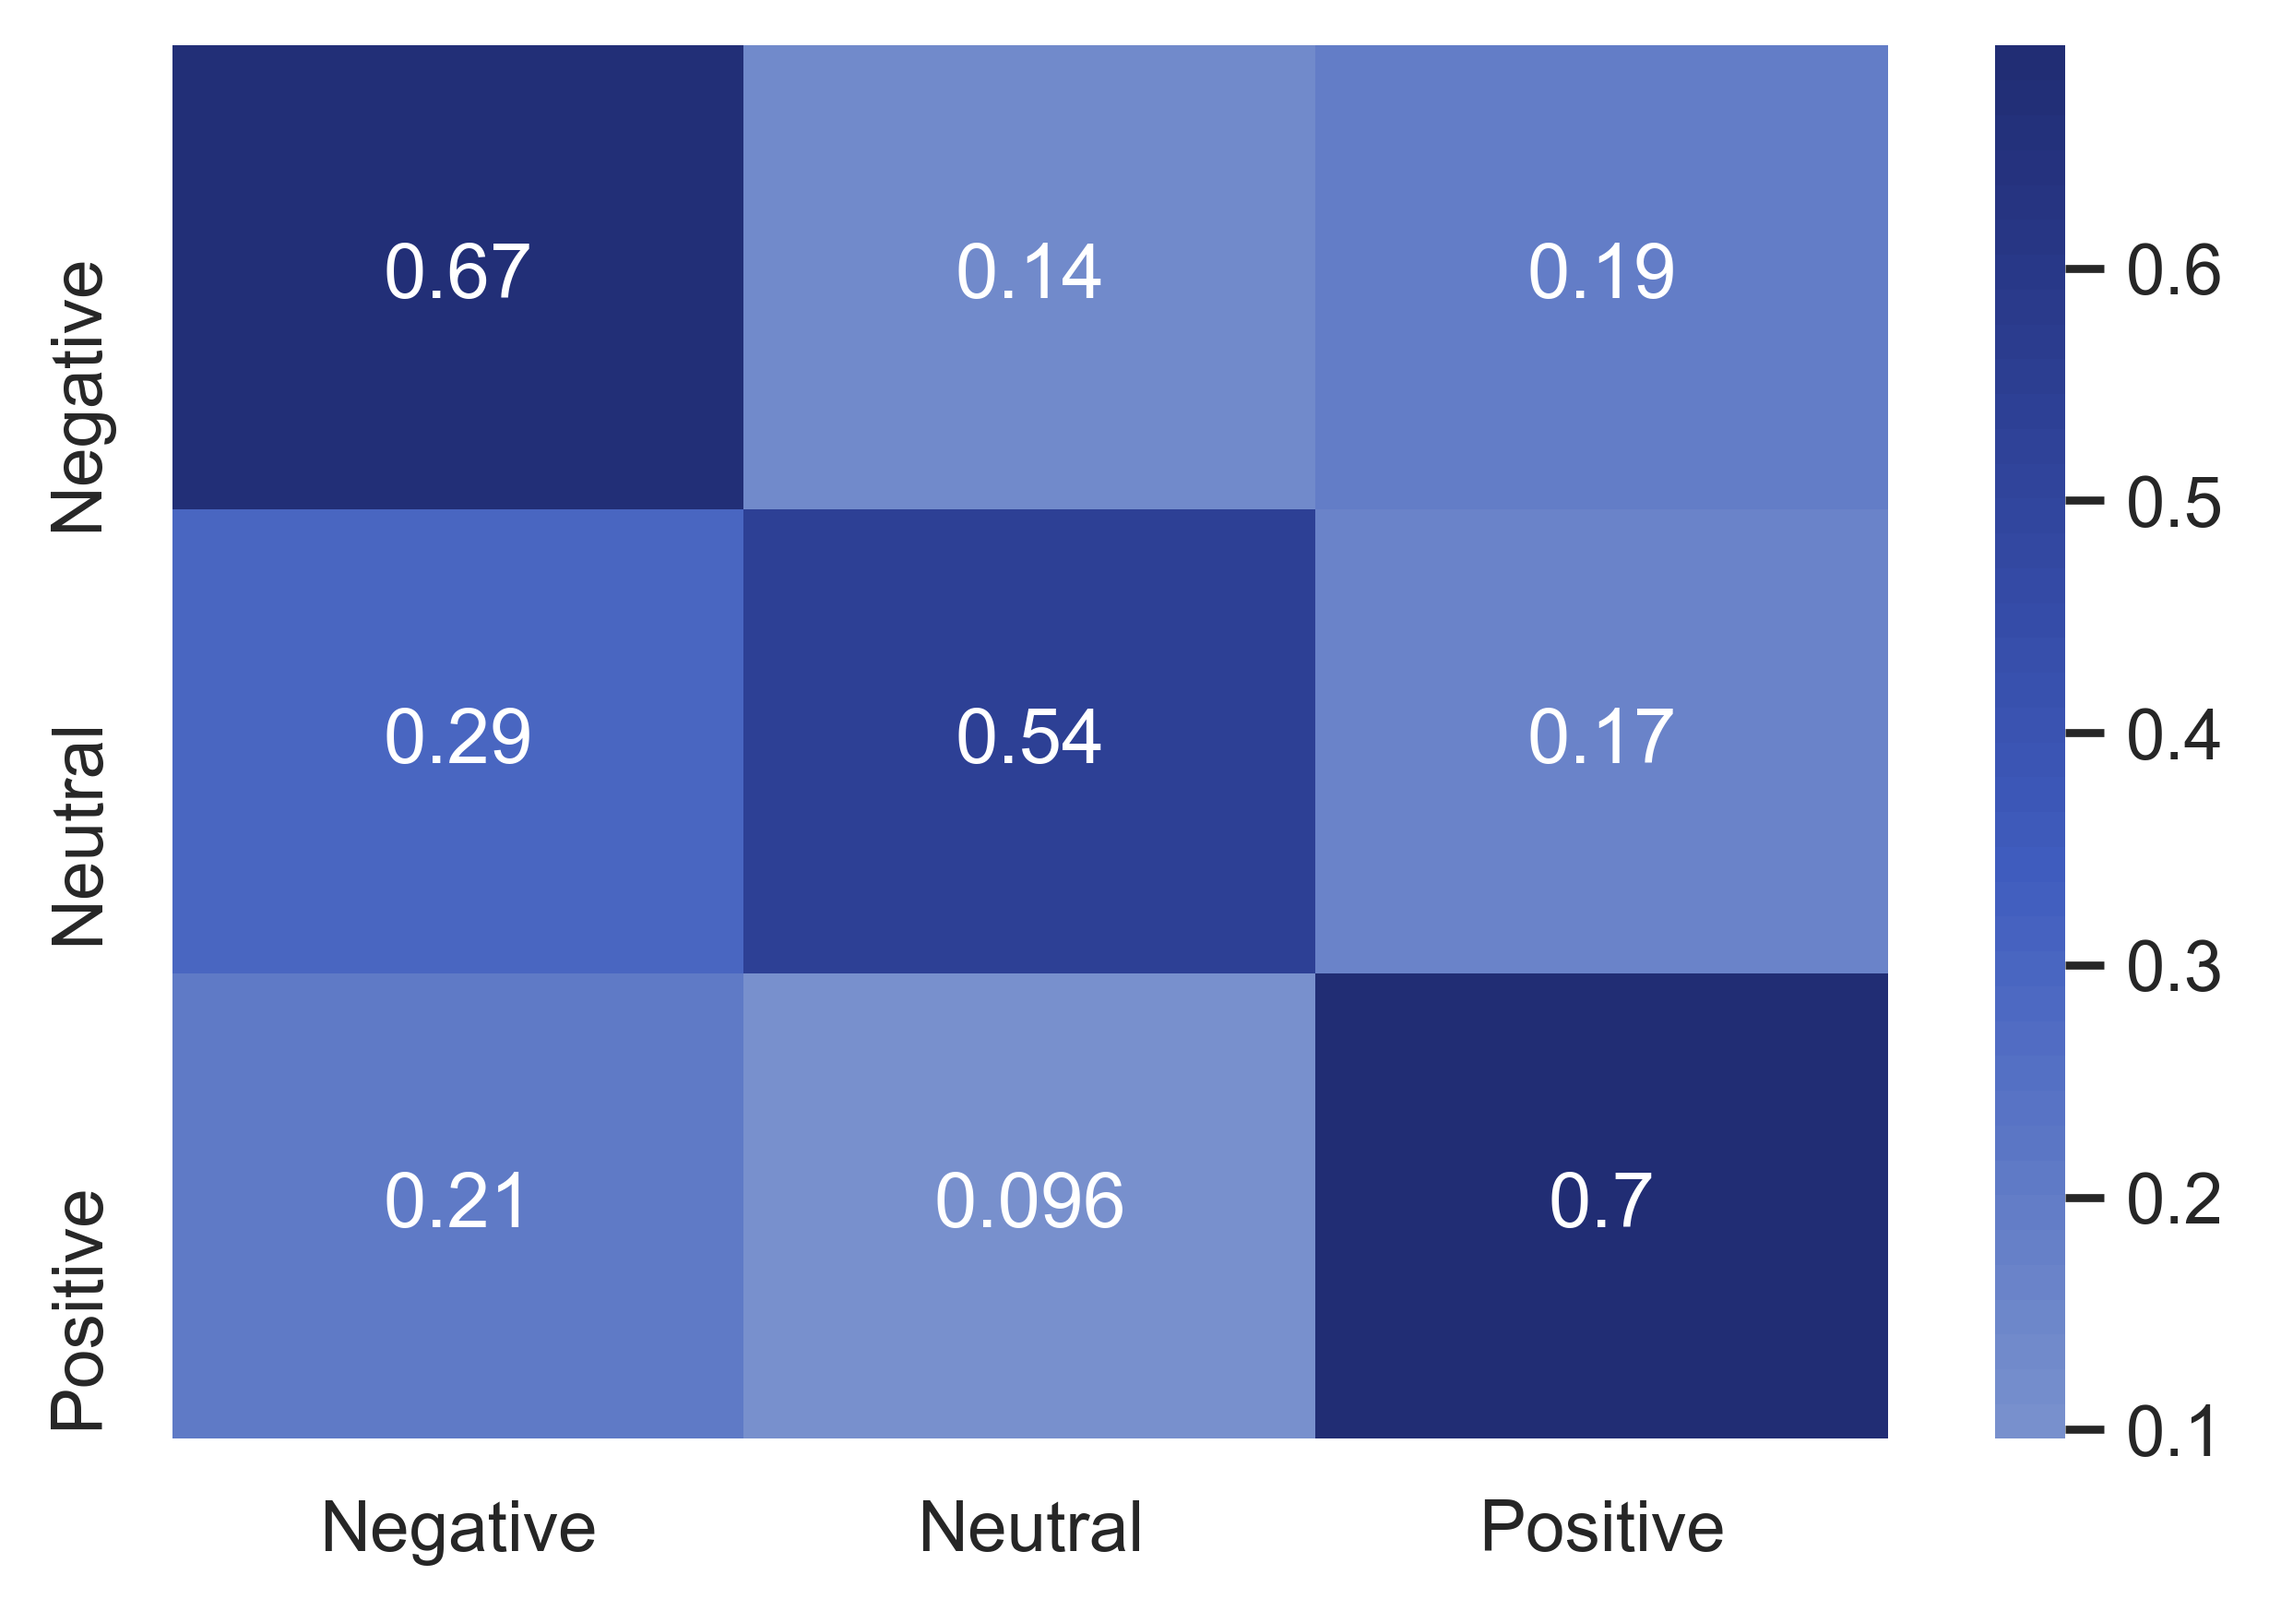
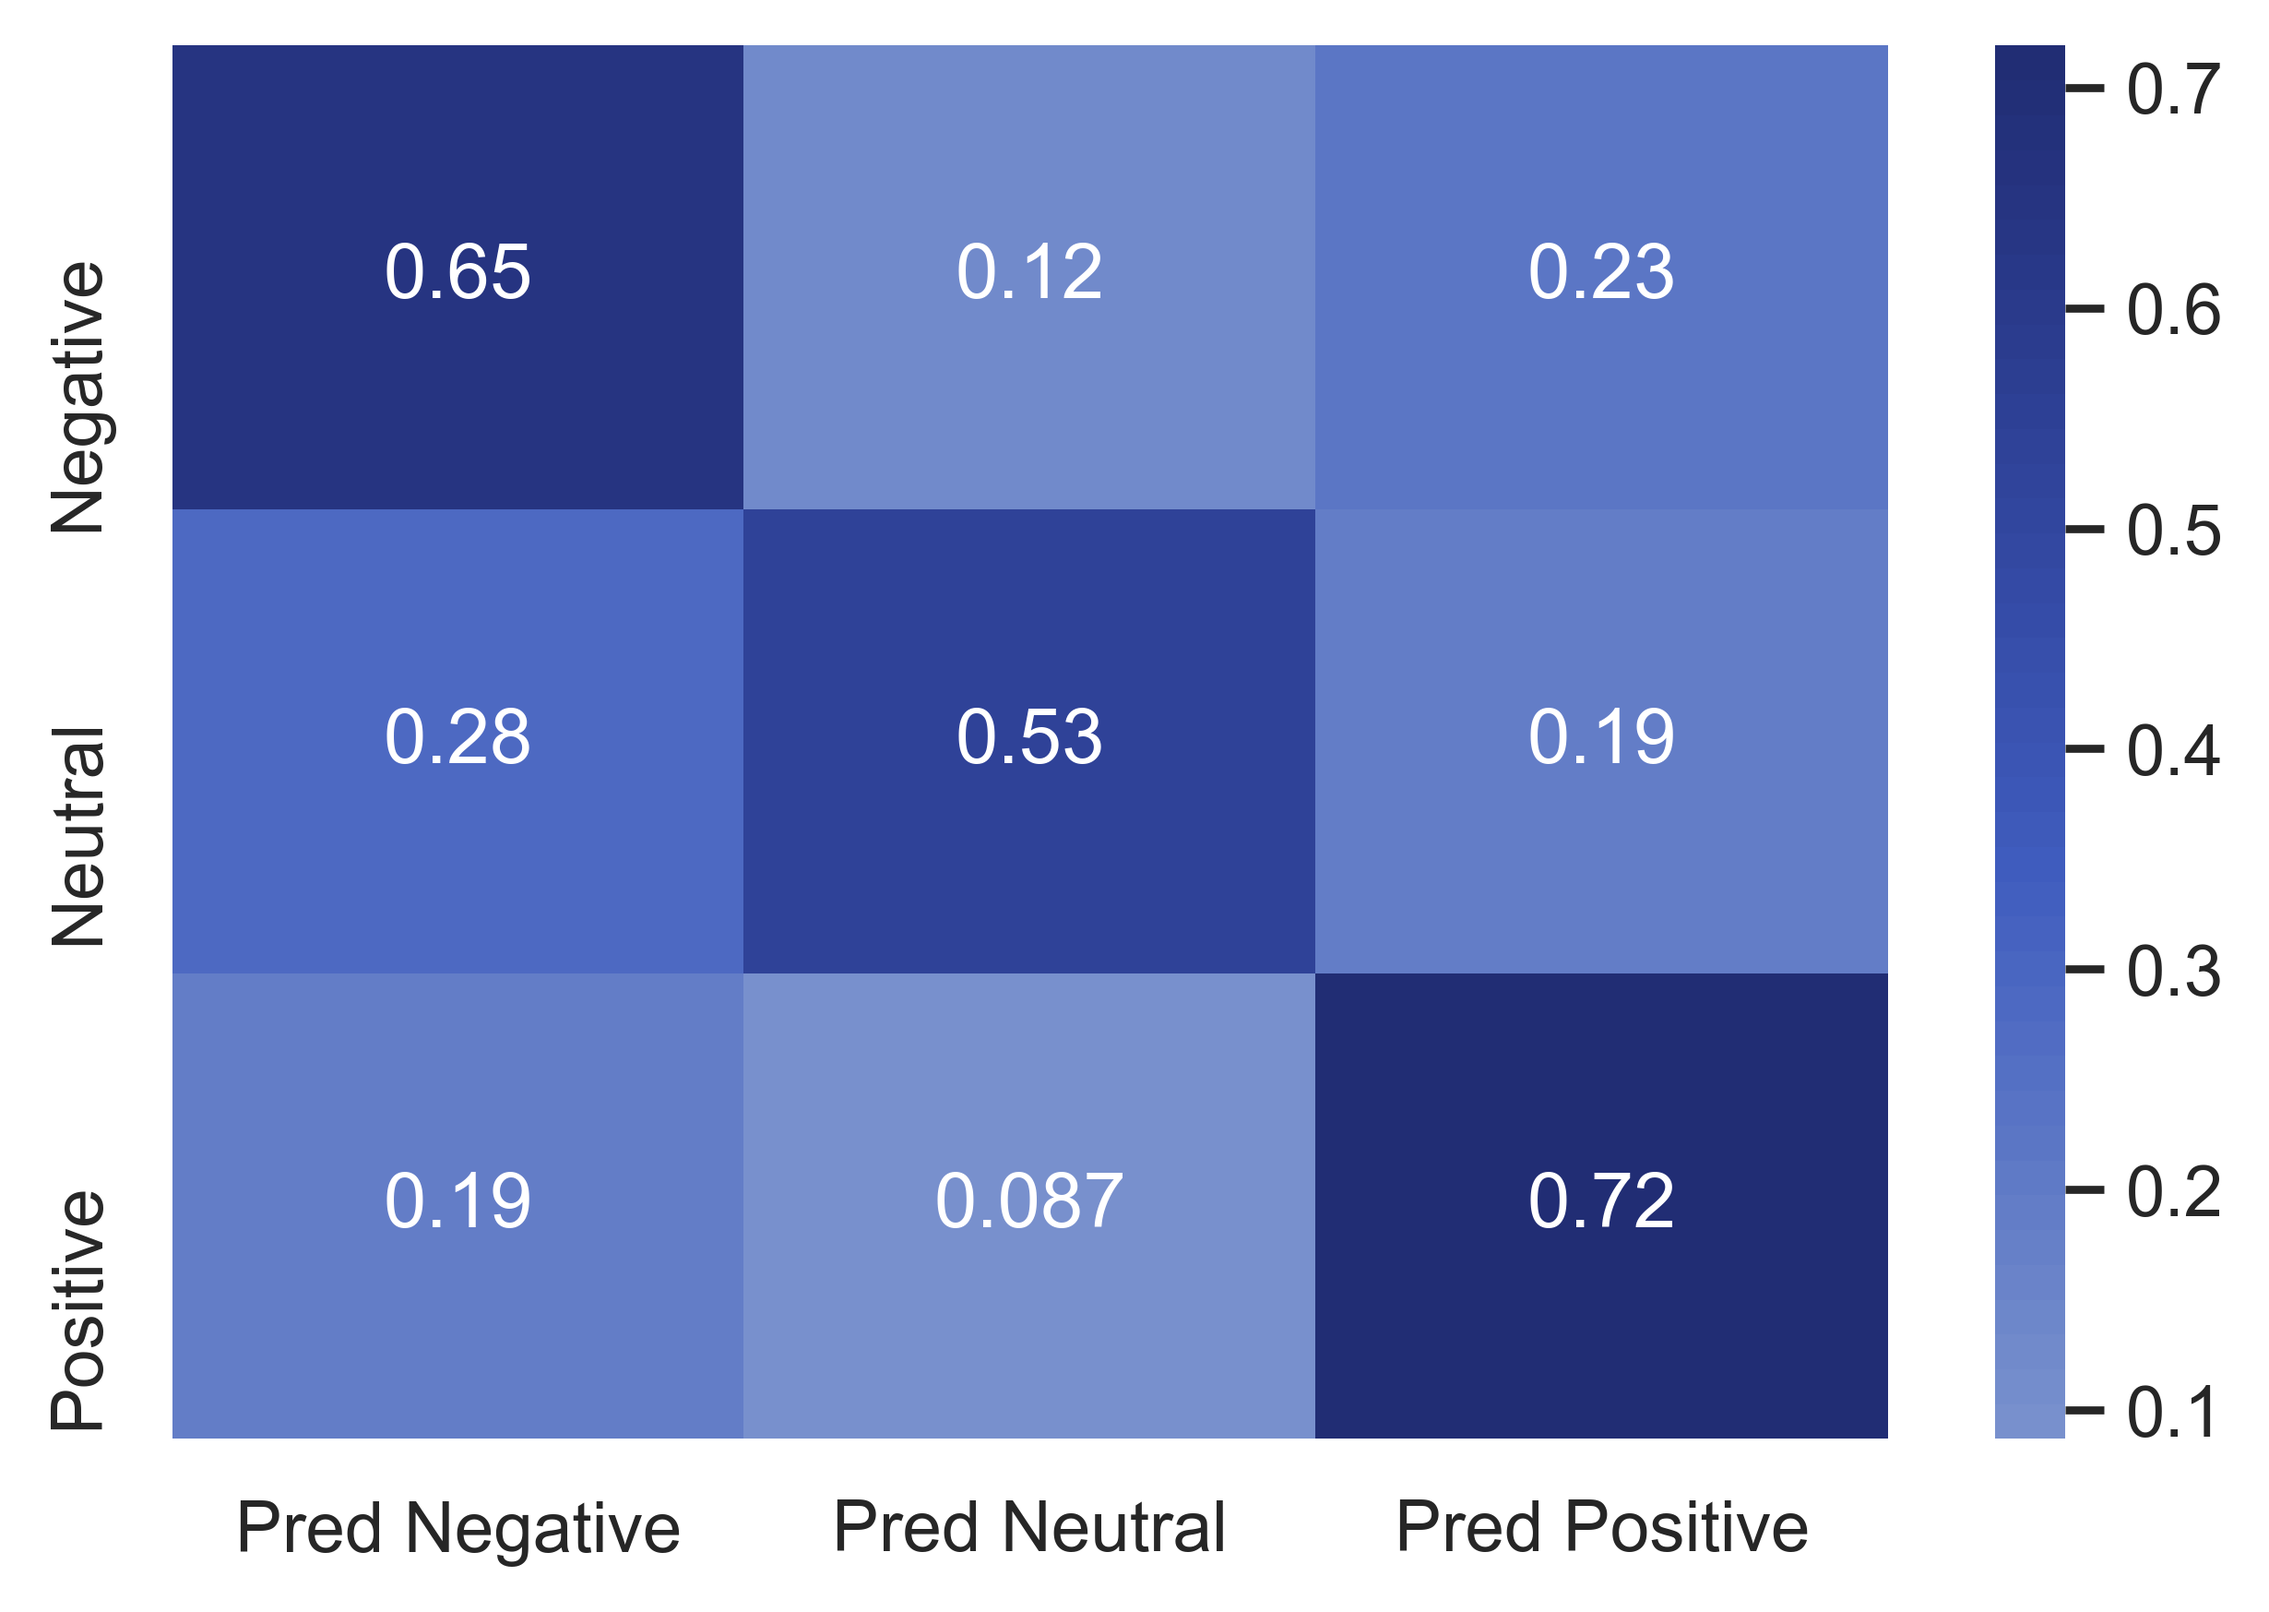
clean report notebook some more, new LSTM confusion matrix figure, update model_evaluation/plot_confusion_matrix to label predicts as pred at bottom of image.

diff --git a/src/model_evaluation.py b/src/model_evaluation.py
@@ -28,17 +28,17 @@ def plot_confusion_matrix(y_true,y_pred, save_path = None):
     """
     Uses sklearn.metrics.confusion_matrix to plot a seaborn heatmap with normalized labels for a 3x3 confusion matrix.  
     Inputs y_true and y_pred must each have 3 categories one column.
-    take an optional argument: save_path = None or string-type filepath
+    take an optional argument: save_path = None or string-type filepath that defines the path to save the image at, if desired.  None means image will not be saved.
     """
     import seaborn as sns
     from sklearn.metrics import confusion_matrix
     import matplotlib.pyplot as plt
     sns.set(context = 'notebook', style = 'whitegrid')
 
-
+    
     sns.heatmap(confusion_matrix(y_true, y_pred, normalize = 'true'), 
             annot = True, 
-            xticklabels = ['Negative','Neutral','Positive'],
+            xticklabels = ['Pred Negative','Pred Neutral','Pred Positive'],
             yticklabels = ['Negative','Neutral','Positive'],
             cmap = ['#7890cd', '#748dcc', '#718acb', '#6d87ca', '#6a83c9', '#6680c8', 
                     '#637dc7', '#5f7ac6', '#5b76c5', '#5873c5', '#5470c4', '#516cc3', 
